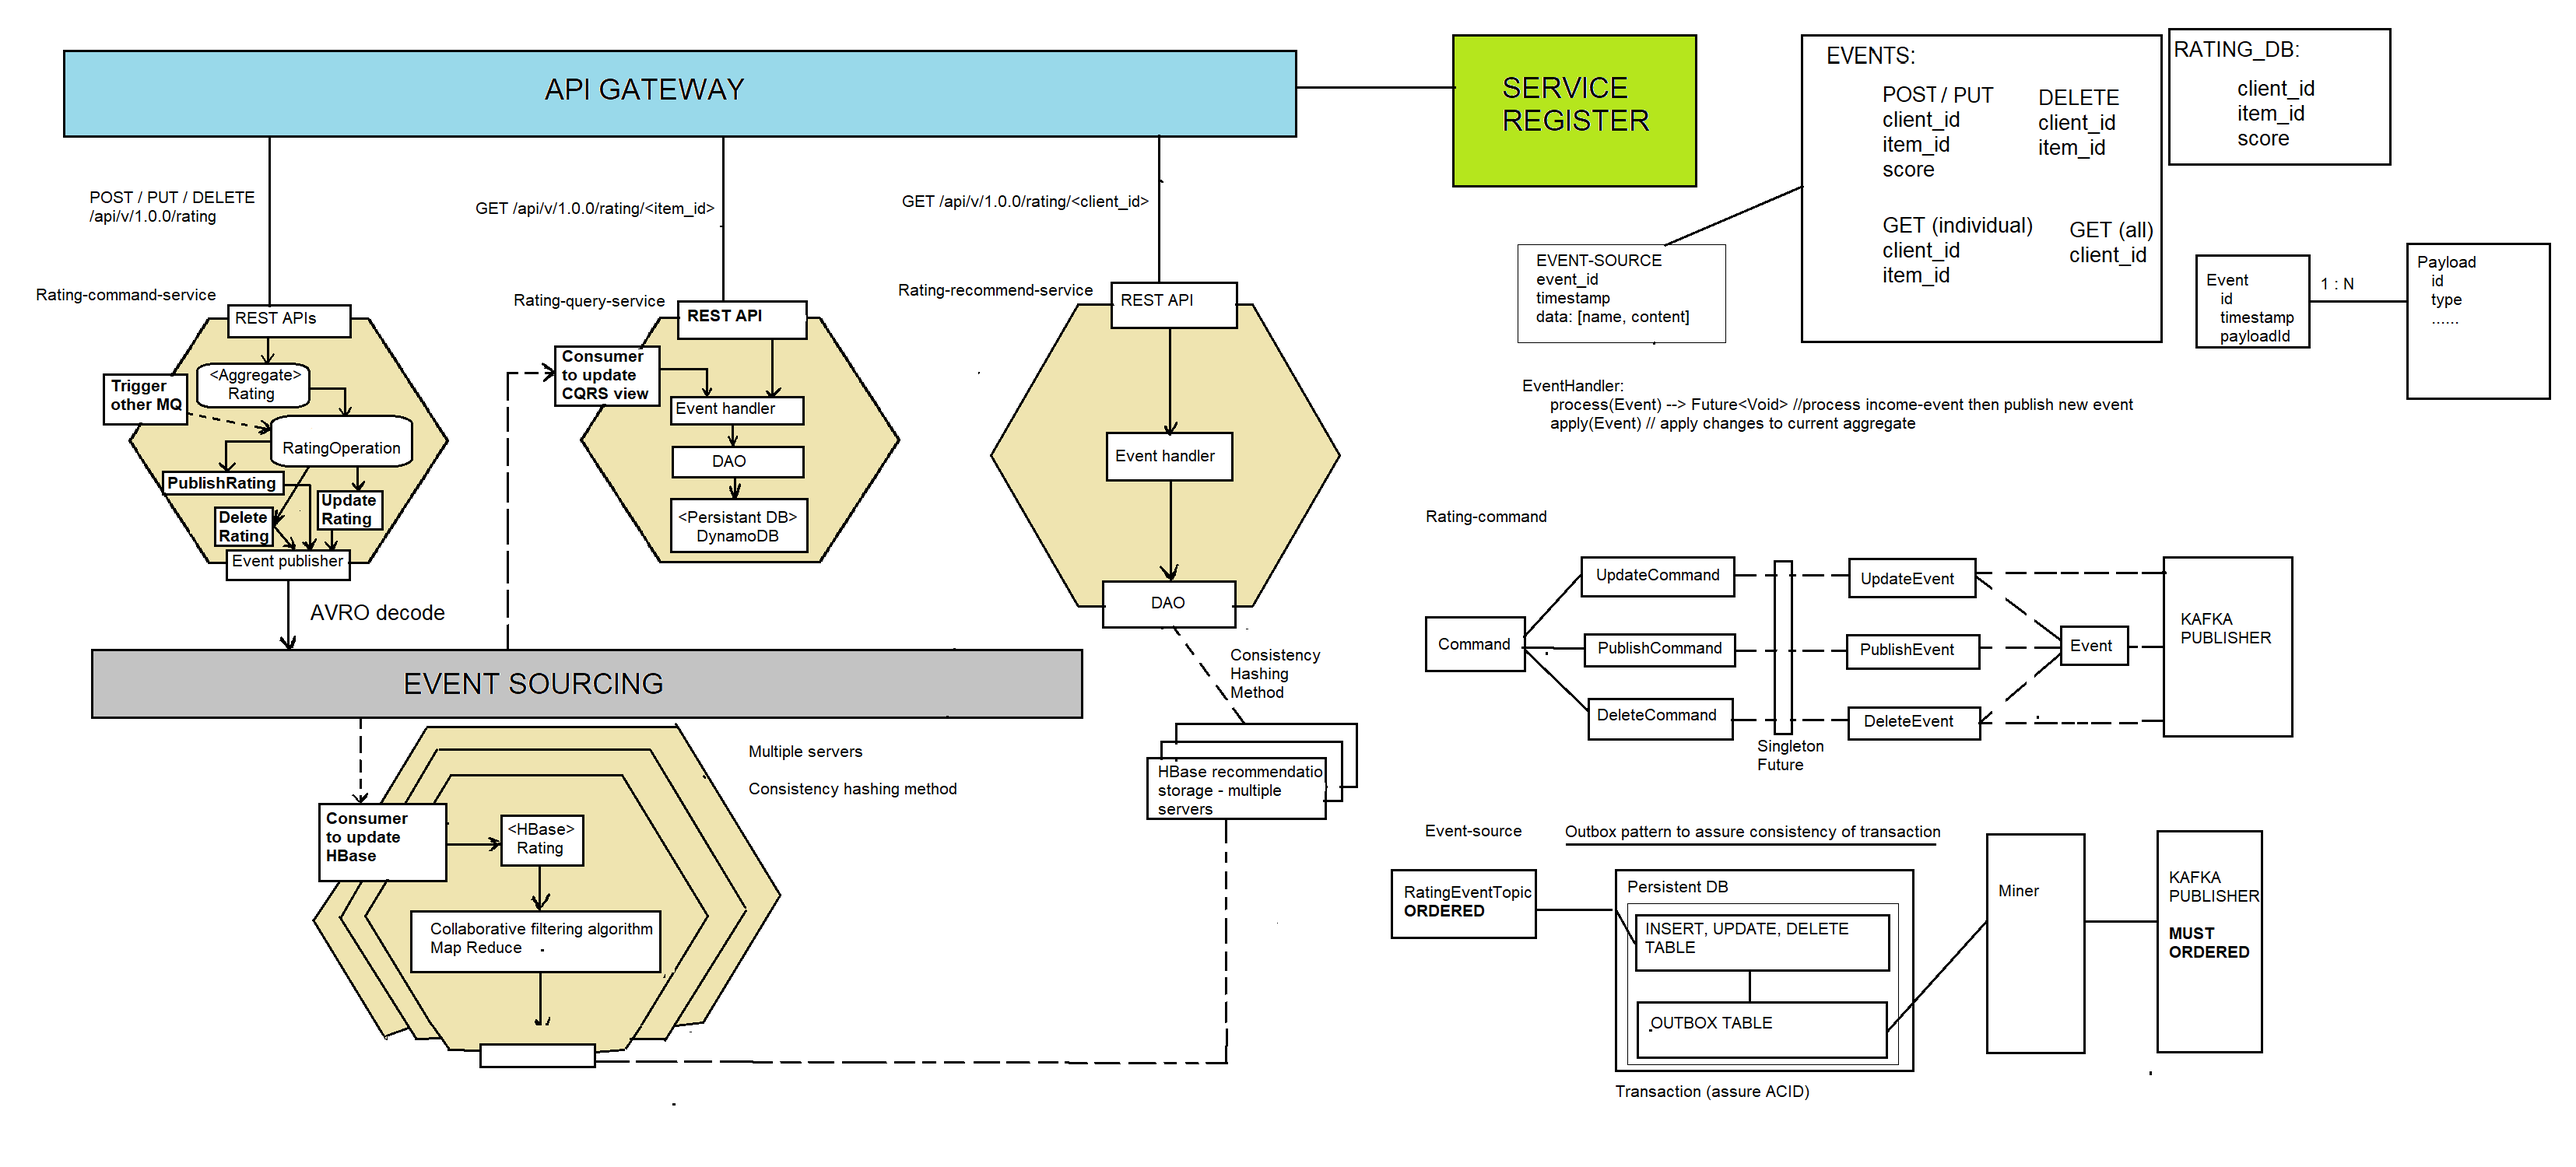
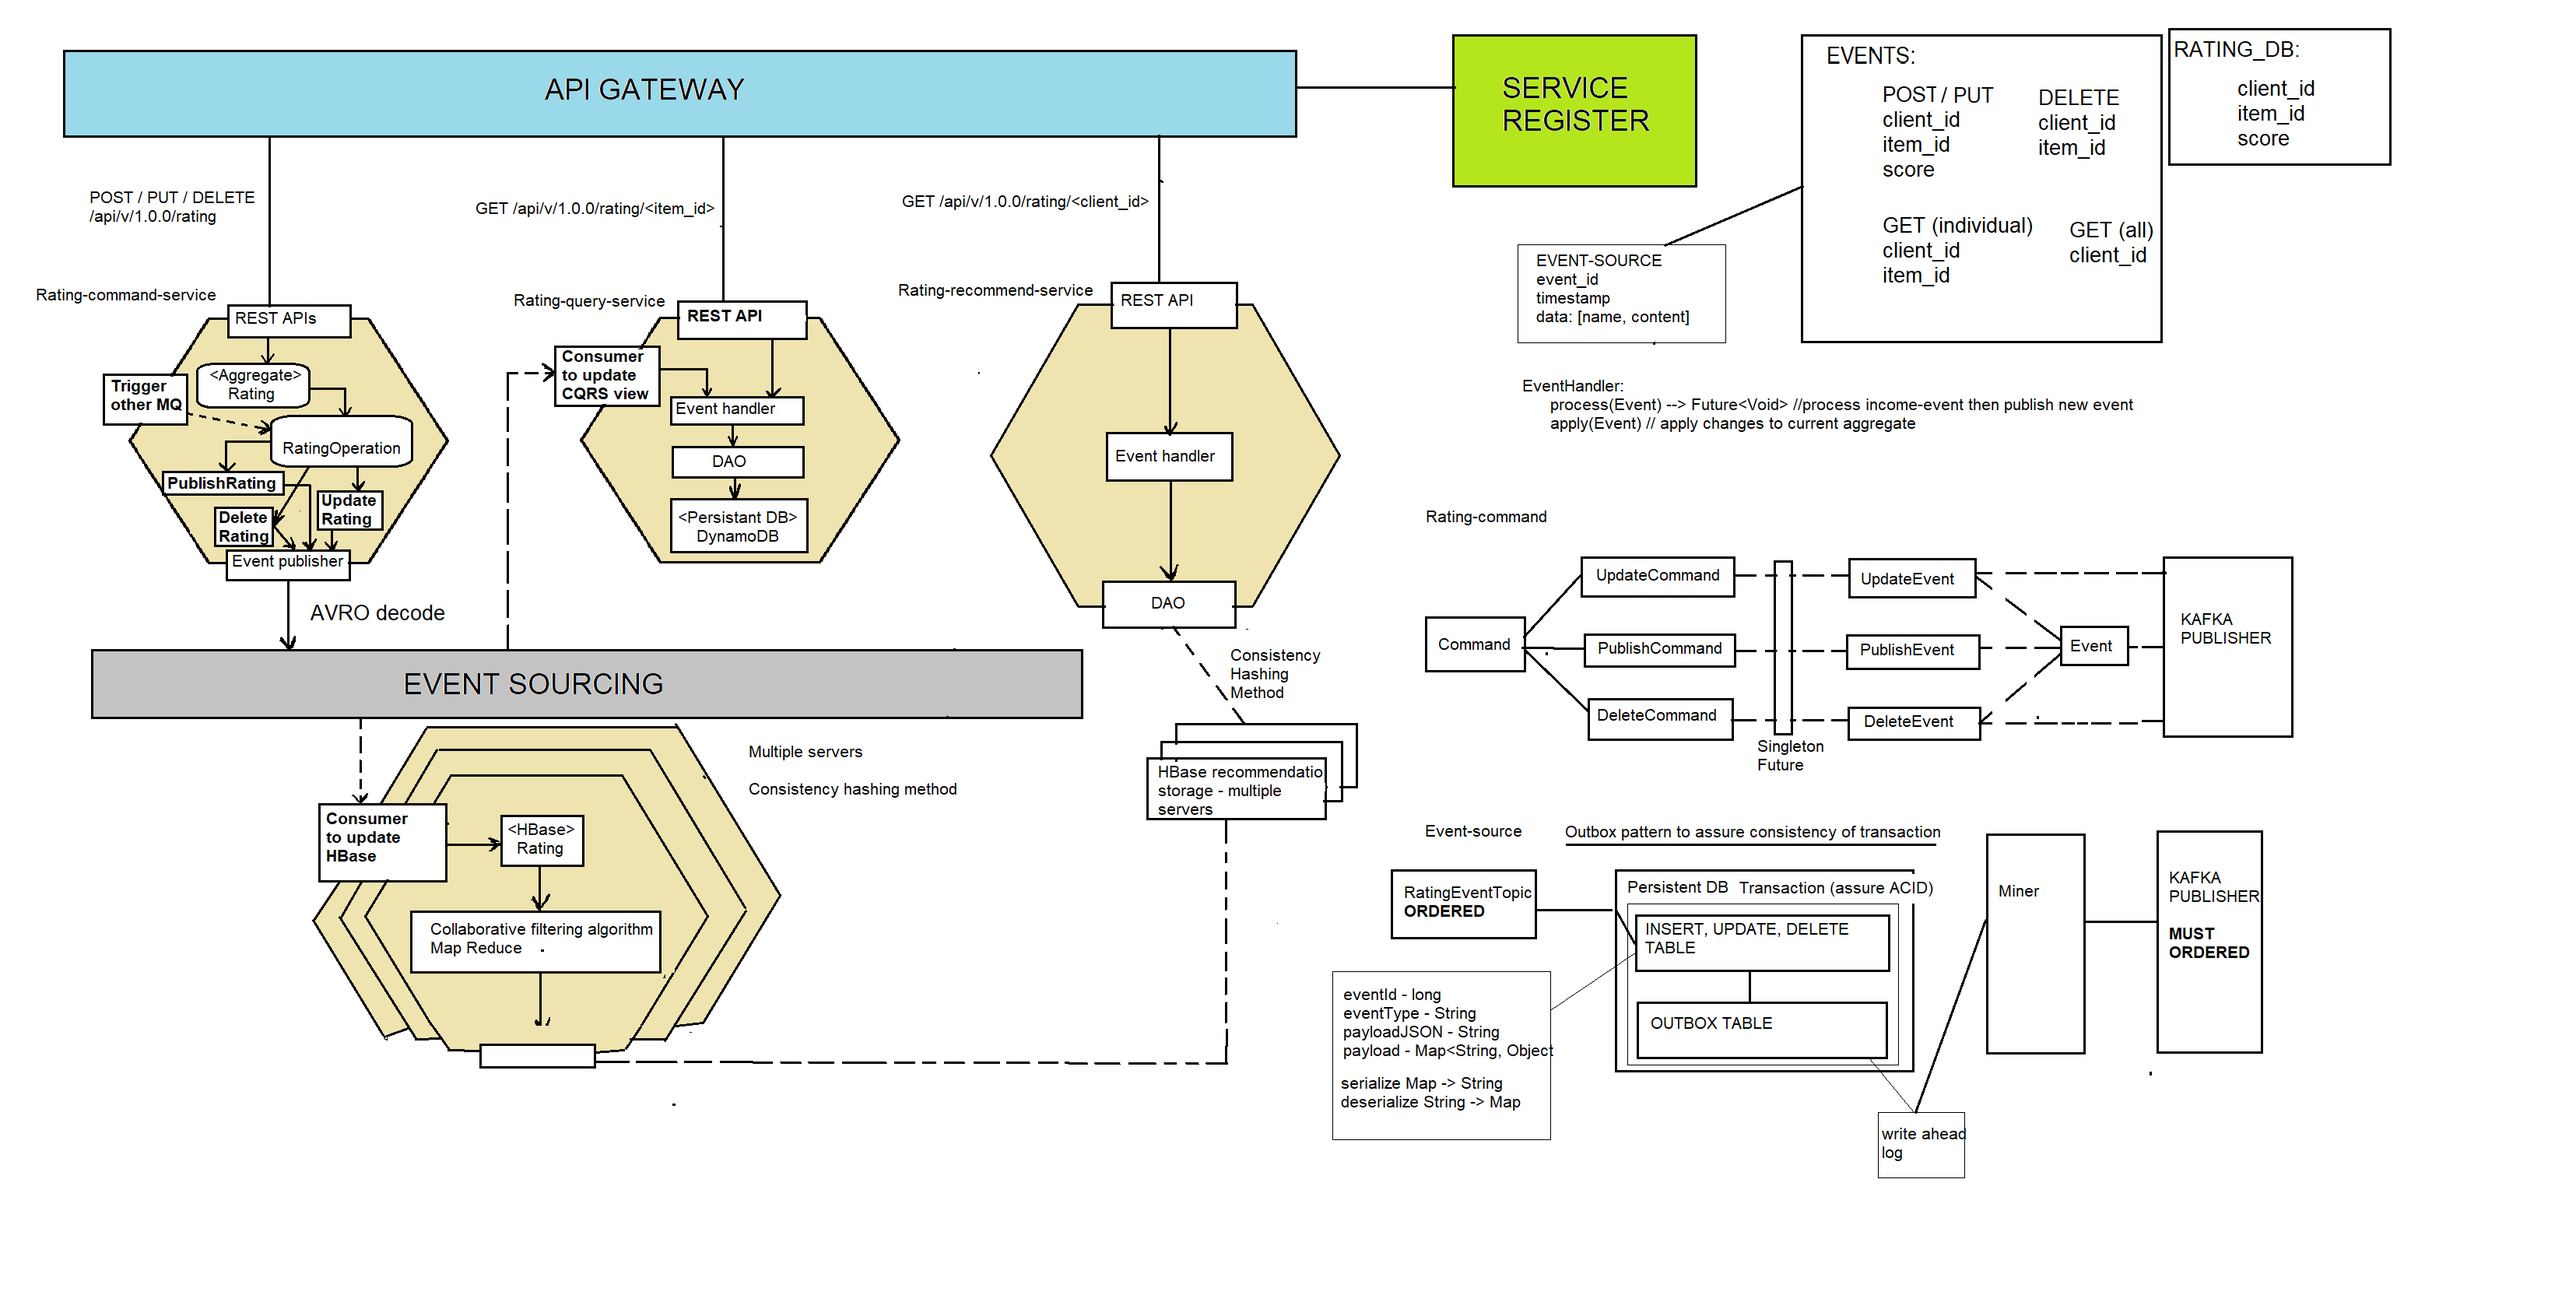
fixed bugs in outbox entity

diff --git a/services/recommender_service/event-source-storage/src/main/java/vn/datnguyen/recommender/Models/OutboxEntity.java b/services/recommender_service/event-source-storage/src/main/java/vn/datnguyen/recommender/Models/OutboxEntity.java
@@ -13,7 +13,7 @@ import com.fasterxml.jackson.core.JsonProcessingException;
 import com.fasterxml.jackson.core.type.TypeReference;
 import com.fasterxml.jackson.databind.ObjectMapper;
 
-import vn.datnguyen.recommender.Utils.HashMapConverter;
+import vn.datnguyen.recommender.Utils.OutboxHashMapConverter;
 
 @Entity
 @Table(name = "OUTBOX")
@@ -25,12 +25,12 @@ public class OutboxEntity {
     @Column(name = "TYPE")
     private String eventType;
 
-    @Column(name = "PAYLOAD")
+    @Column(name = "DATA")
     private String payloadJSON;
     
     // Object -> String before persist 
     // String -> Object when get
-    @Convert(converter = HashMapConverter.class)
+    @Convert(converter = OutboxHashMapConverter.class)
     private Map<String, Object> payload;
 
     public long getEventId() {
@@ -66,17 +66,18 @@ public class OutboxEntity {
     }
 
     // Object mapper 
-    private static final ObjectMapper objectMapper = new ObjectMapper();
+    private final ObjectMapper objectMapper = new ObjectMapper();
     
     public void serializePayload() throws JsonProcessingException {
-        String jsonResult = objectMapper.writeValueAsString(payload);
+        String jsonResult = objectMapper.writeValueAsString(getPayload());
         setPayloadJSON(jsonResult);
     }
 
     public void deserializePayload() throws IOException {
         Map<String, Object> mapResult = 
-            objectMapper.readValue(payloadJSON, new TypeReference<Map<String, Object>>(){});
+            objectMapper.readValue(getPayloadJSON(), new TypeReference<Map<String, Object>>(){});
         
         setPayload(mapResult);
     }
+
 }

diff --git a/services/recommender_service/event-source-storage/src/main/java/vn/datnguyen/recommender/Models/EventEntity.java b/services/recommender_service/event-source-storage/src/main/java/vn/datnguyen/recommender/Models/EventEntity.java
@@ -17,7 +17,7 @@ import com.fasterxml.jackson.databind.ObjectMapper;
 
 import org.hibernate.annotations.GenericGenerator;
 
-import vn.datnguyen.recommender.Utils.HashMapConverter;
+import vn.datnguyen.recommender.Utils.EventHashMapConverter;
 
 
 @Entity
@@ -32,12 +32,12 @@ public class EventEntity {
     @Column(name = "TYPE")
     private String eventType;
 
-    @Column(name = "PAYLOAD")
+    @Column(name = "DATA")
     private String payloadJSON;
     
     // Object -> String before persist 
     // String -> Object when get
-    @Convert(converter = HashMapConverter.class)
+    @Convert(converter = EventHashMapConverter.class)
     private Map<String, Object> payload;
 
     public long getEventId() {
@@ -73,16 +73,16 @@ public class EventEntity {
     }
 
     // Object mapper 
-    private static final ObjectMapper objectMapper = new ObjectMapper();
+    private final ObjectMapper objectMapper = new ObjectMapper();
     
     public void serializePayload() throws JsonProcessingException {
-        String jsonResult = objectMapper.writeValueAsString(payload);
+        String jsonResult = objectMapper.writeValueAsString(getPayload());
         setPayloadJSON(jsonResult);
     }
 
     public void deserializePayload() throws IOException {
         Map<String, Object> mapResult = 
-            objectMapper.readValue(payloadJSON, new TypeReference<Map<String, Object>>(){});
+            objectMapper.readValue(getPayloadJSON(), new TypeReference<Map<String, Object>>(){});
         
         setPayload(mapResult);
     }

diff --git a/services/recommender_service/event-source-storage/src/main/java/vn/datnguyen/recommender/Utils/EventHashMapConverter.java b/services/recommender_service/event-source-storage/src/main/java/vn/datnguyen/recommender/Utils/EventHashMapConverter.java
@@ -1,0 +1,45 @@
+package vn.datnguyen.recommender.Utils;
+
+import java.io.IOException;
+import java.util.Map;
+
+import javax.persistence.AttributeConverter;
+
+import com.fasterxml.jackson.core.JsonProcessingException;
+import com.fasterxml.jackson.core.type.TypeReference;
+import com.fasterxml.jackson.databind.ObjectMapper;
+
+import org.slf4j.Logger;
+import org.slf4j.LoggerFactory;
+
+public class EventHashMapConverter implements AttributeConverter<Map<String, Object>, String> {
+
+    private static final Logger logger = LoggerFactory.getLogger(EventHashMapConverter.class);
+    private final ObjectMapper objectMapper = new ObjectMapper();
+
+    @Override
+    public String convertToDatabaseColumn(Map<String, Object> payloadInfo) {
+        String payloadJSON = null;
+
+        try {
+            payloadJSON = objectMapper.writeValueAsString(payloadInfo);
+        } catch (JsonProcessingException e) {
+            logger.error("EVENT-SOURCE: json event-source db writting error",e);
+        }
+
+        return payloadJSON;
+    }
+
+    @Override
+    public Map<String, Object> convertToEntityAttribute(String payloadJSON) {
+        Map<String, Object> payload = null;
+
+        try {
+            payload = objectMapper.readValue(payloadJSON, new TypeReference<Map<String, Object>>(){});
+        } catch (IOException e) {
+            logger.error("EVENT-SOURCE: json event-source db reading error",e);
+        }
+        
+        return payload;
+    }
+}

diff --git a/services/recommender_service/event-source-storage/src/main/java/vn/datnguyen/recommender/Utils/OutboxHashMapConverter.java b/services/recommender_service/event-source-storage/src/main/java/vn/datnguyen/recommender/Utils/OutboxHashMapConverter.java
@@ -12,9 +12,9 @@ import com.fasterxml.jackson.databind.ObjectMapper;
 import org.slf4j.Logger;
 import org.slf4j.LoggerFactory;
 
-public class HashMapConverter implements AttributeConverter<Map<String, Object>, String> {
+public class OutboxHashMapConverter implements AttributeConverter<Map<String, Object>, String> {
 
-    private static final Logger logger = LoggerFactory.getLogger(HashMapConverter.class);
+    private static final Logger logger = LoggerFactory.getLogger(EventHashMapConverter.class);
     private final ObjectMapper objectMapper = new ObjectMapper();
 
     @Override
@@ -24,7 +24,7 @@ public class HashMapConverter implements AttributeConverter<Map<String, Object>,
         try {
             payloadJSON = objectMapper.writeValueAsString(payloadInfo);
         } catch (JsonProcessingException e) {
-            logger.error("EVENT-SOURCE: json writting error",e);
+            logger.error("EVENT-SOURCE: json outbox db writting error",e);
         }
 
         return payloadJSON;
@@ -37,7 +37,7 @@ public class HashMapConverter implements AttributeConverter<Map<String, Object>,
         try {
             payload = objectMapper.readValue(payloadJSON, new TypeReference<Map<String, Object>>(){});
         } catch (IOException e) {
-            logger.error("EVENT-SOURCE: json reading error",e);
+            logger.error("EVENT-SOURCE: json outbox db reading error",e);
         }
         
         return payload;
